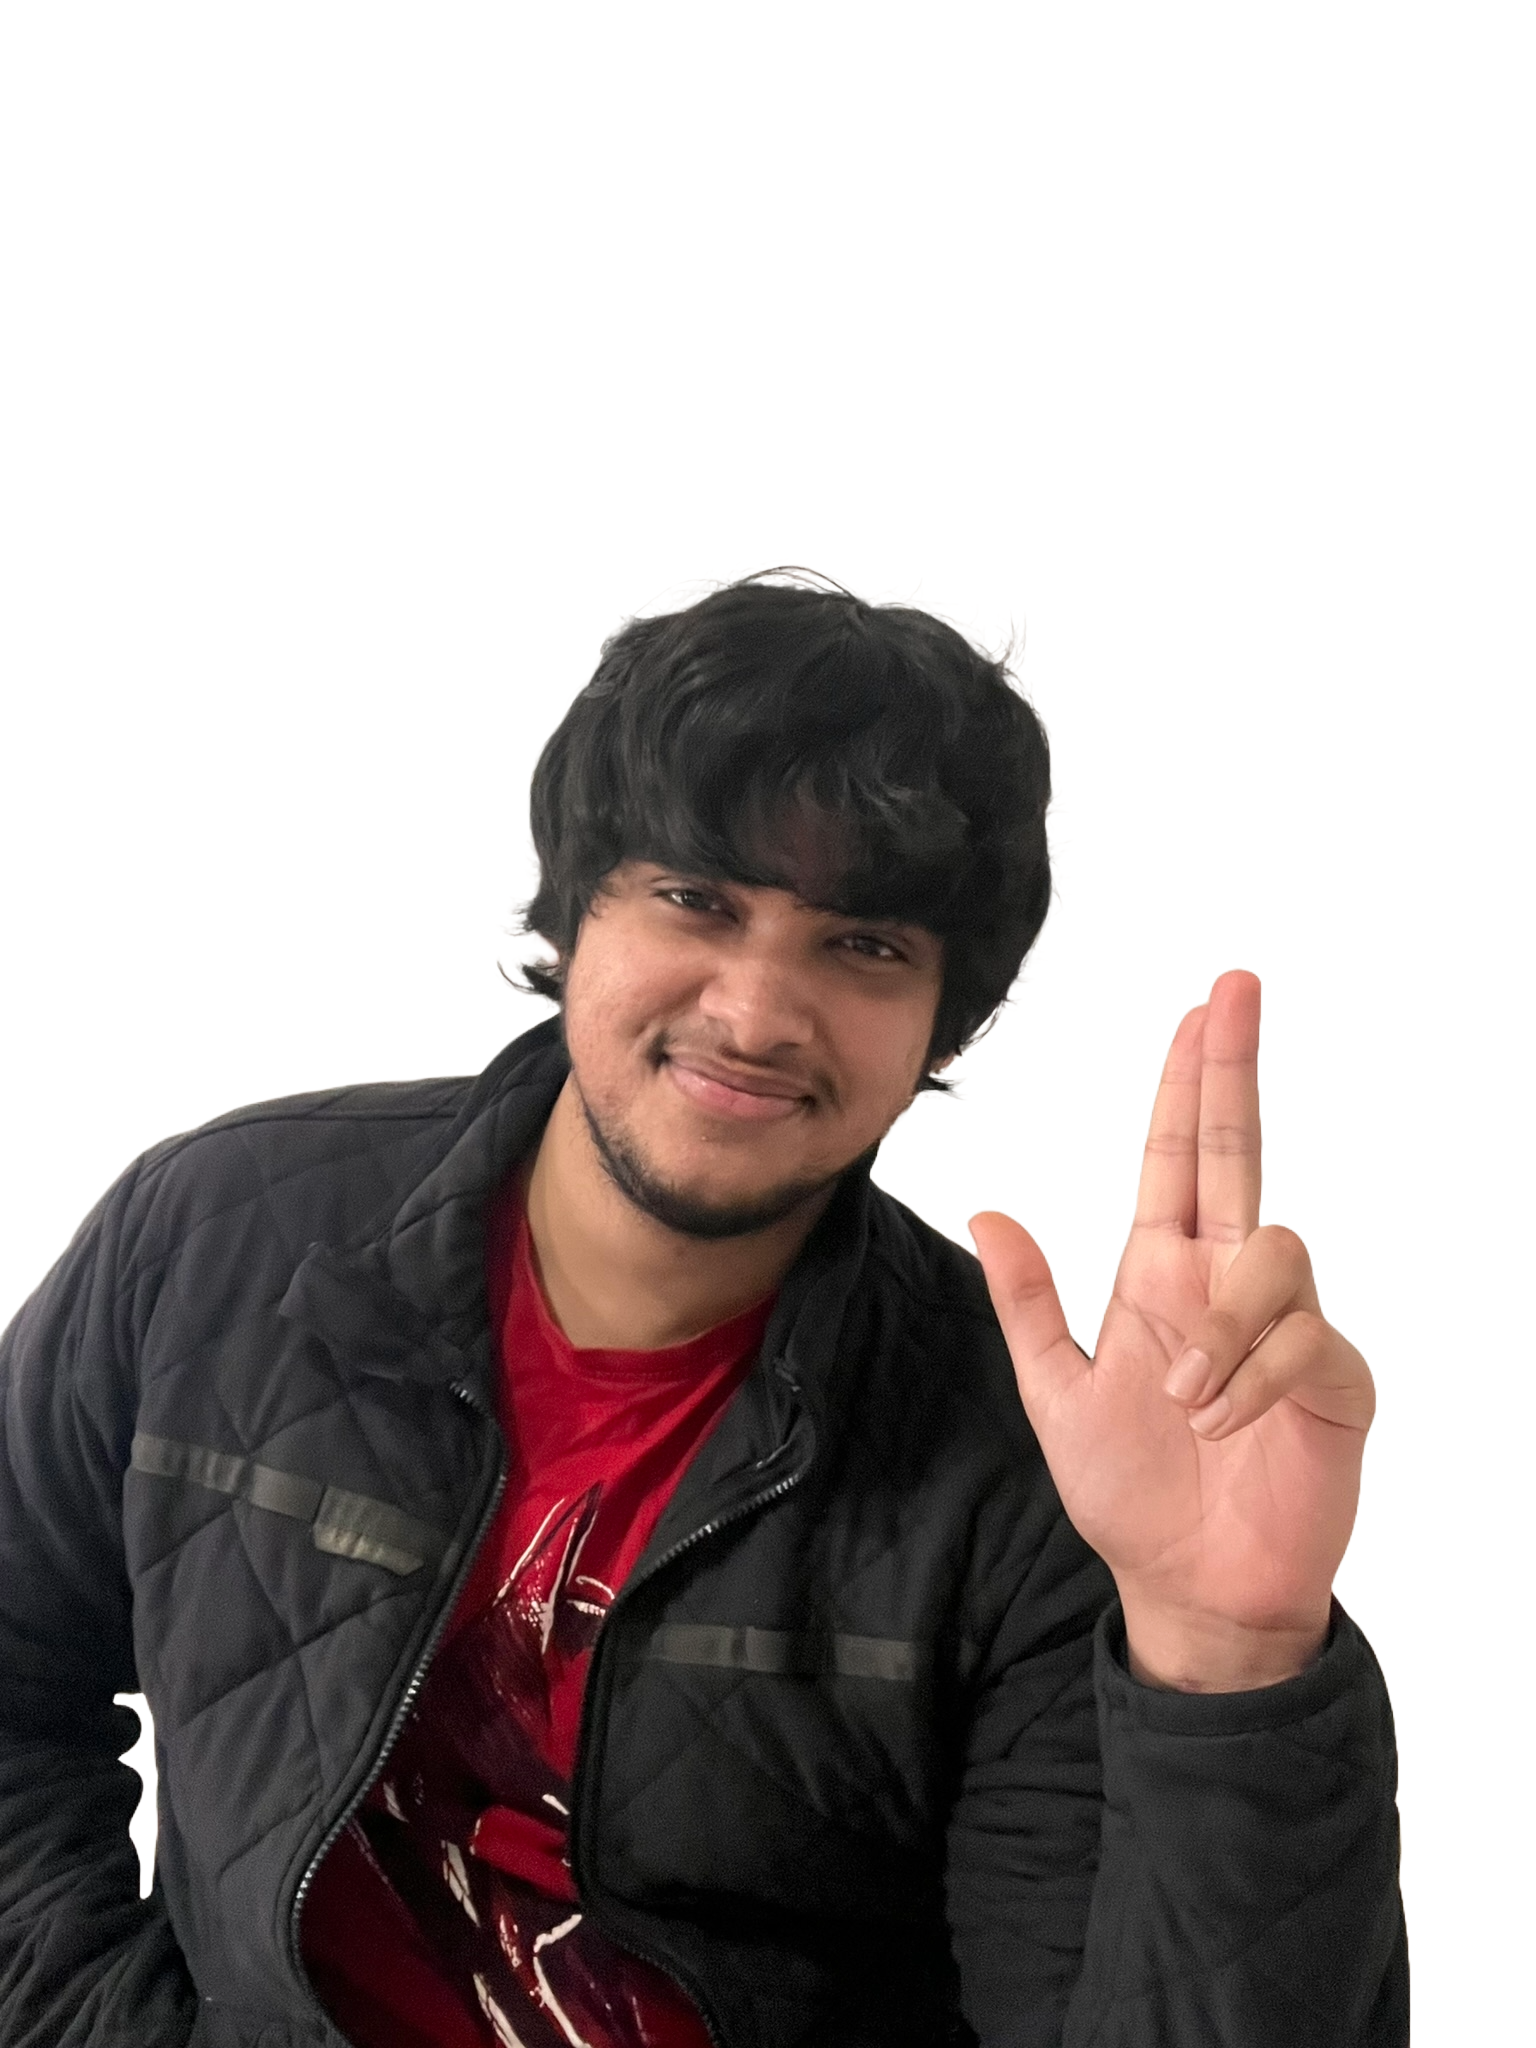
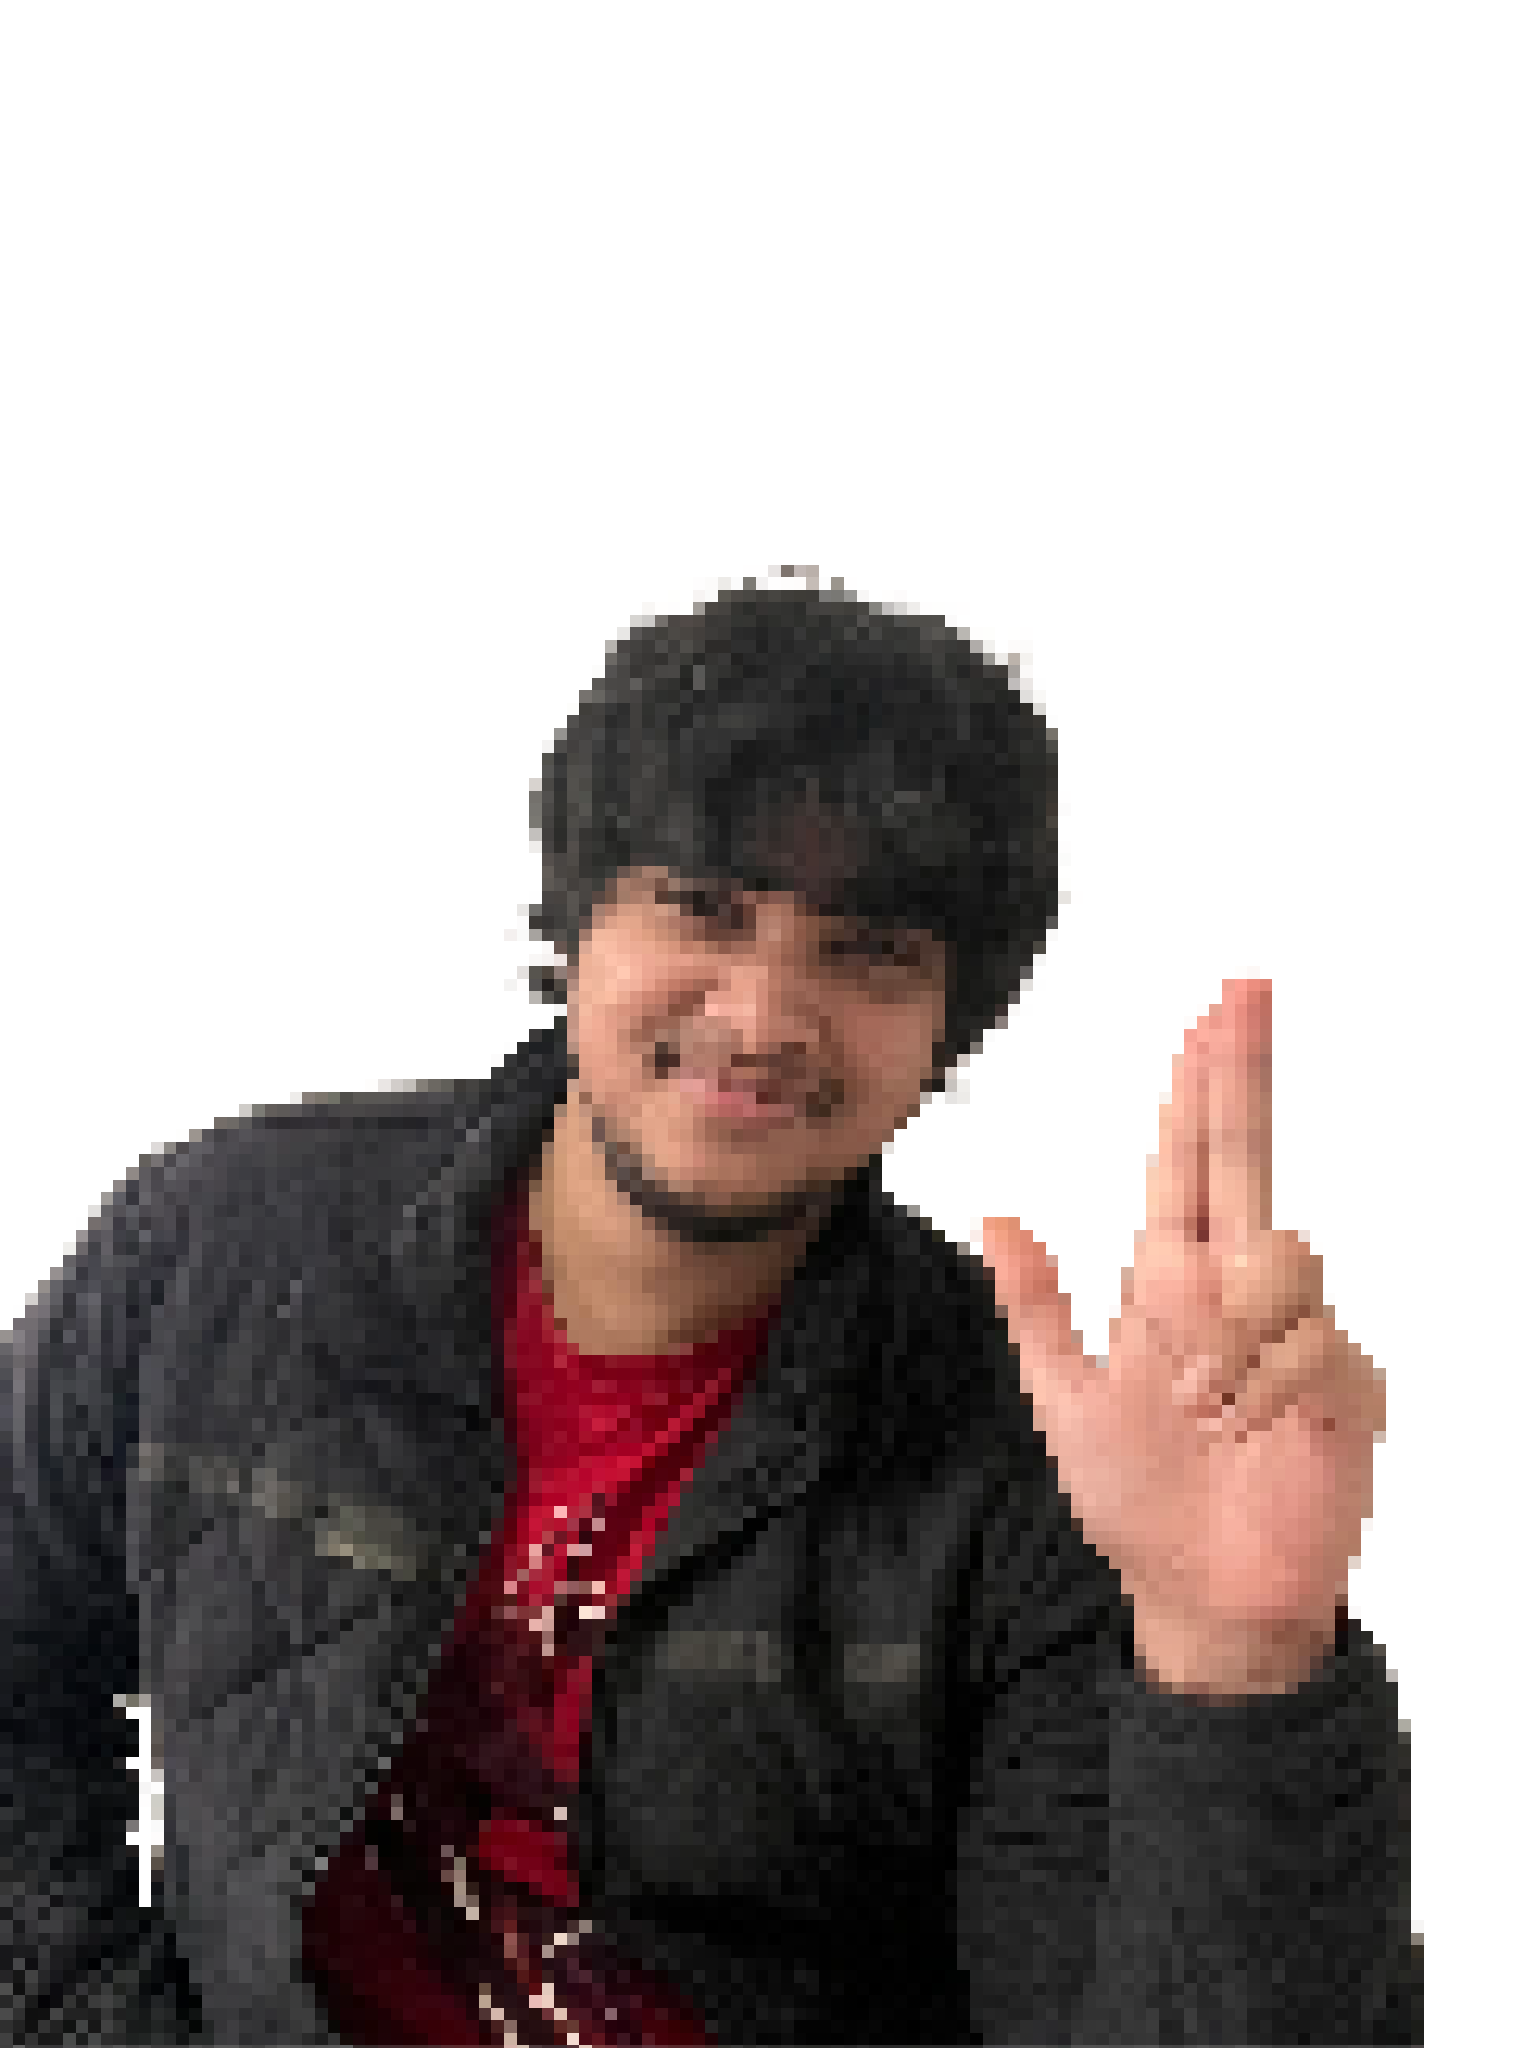
"trying pixelated v1"

diff --git a/test.html b/test.html
@@ -3,120 +3,21 @@
 <head>
     <meta charset="UTF-8">
     <meta name="viewport" content="width=device-width, initial-scale=1.0">
-    <title>Glitch Effect Image</title>
+    <title>Undertale Font Example</title>
     <style>
-        * {
-            margin: 0;
-            padding: 0;
-            box-sizing: border-box;
-        }
-        
+        @import url('https://fonts.googleapis.com/css2?family=Pixelify+Sans:wght@400..700&display=swap');
+
         body {
-            height: 100vh;
-            width: 100%;
-            background: radial-gradient(#480d35, #17151d);
-            display: grid;
-            place-items: center;
+            font-family: 'Pixelify Sans', sans-serif;
         }
 
-        .glitch-img {
-            position: relative;
-            width: 300px;
-            height: 400px;
-            overflow: hidden;
-        }
-
-        .glitch-img img {
-            display: block;
-            width: 100%;
-            height: 100%;
-            position: relative;
-            animation: glitch 2s infinite;
-        }
-
-        .glitch-img::before,
-        .glitch-img::after {
-            content: attr(alt);
-            position: absolute;
-            top: 0;
-            left: 0;
-            width: 100%;
-            height: 100%;
-            background: url('/public/images/myImages/about-01.png') no-repeat center/cover;
-            opacity: 0.8;
-            pointer-events: none; /* Prevent pseudo-elements from interfering with interactions */
-            color: transparent; /* Prevent the content text from showing */
-        }
-
-        .glitch-img::before {
-            animation: glitch-1 1s infinite linear alternate-reverse;
-        }
-
-        .glitch-img::after {
-            animation: glitch-2 1s infinite linear alternate-reverse;
-            animation-delay: -0.5s;
-        }
-
-        @keyframes glitch-1 {
-            0% {
-                clip-path: inset(0 0 85% 0);
-                transform: translate(-2px, -2px);
-            }
-            20% {
-                clip-path: inset(15% 0 60% 0);
-                transform: translate(2px, 2px);
-            }
-            40% {
-                clip-path: inset(55% 0 20% 0);
-                transform: translate(-2px, 2px);
-            }
-            60% {
-                clip-path: inset(30% 0 40% 0);
-                transform: translate(2px, -2px);
-            }
-            80% {
-                clip-path: inset(60% 0 10% 0);
-                transform: translate(-2px, -2px);
-            }
-            100% {
-                clip-path: inset(10% 0 85% 0);
-                transform: translate(2px, 2px);
-            }
-        }
-
-        @keyframes glitch-2 {
-            0% {
-                clip-path: inset(80% 0 5% 0);
-                transform: translate(2px, 2px);
-            }
-            20% {
-                clip-path: inset(10% 0 75% 0);
-                transform: translate(-2px, -2px);
-            }
-            40% {
-                clip-path: inset(50% 0 30% 0);
-                transform: translate(2px, -2px);
-            }
-            60% {
-                clip-path: inset(20% 0 50% 0);
-                transform: translate(-2px, 2px);
-            }
-            80% {
-                clip-path: inset(70% 0 15% 0);
-                transform: translate(2px, 2px);
-            }
-            100% {
-                clip-path: inset(30% 0 60% 0);
-                transform: translate(-2px, -2px);
-            }
+        .pixelated-text {
         }
     </style>
 </head>
 <body>
 
-    <div class="glitch-img">
-        <img src="/public/images/myImages/about-01.png" alt="Glitch Image">
-    </div>
+        Undertale Font in Action!
 
 </body>
 </html>

diff --git a/styles/pattern.css b/styles/pattern.css
@@ -1,23 +1,23 @@
 .pattern-container1 {
     background-color: blue;
-    background-image: 
+    /* background-image: 
         linear-gradient(90deg, rgb(87, 191, 226) 1px, transparent 1px),
         linear-gradient(90deg, lightblue 1px, transparent 1px),
         linear-gradient(0deg, lightblue 1px, transparent 1px),
         linear-gradient(0deg, lightblue 1px, transparent 1px);
     background-size: 2px 2px;
-    background-position: 0px 0px, 10px 10px, 0px 0px, 10px 10px;
+    background-position: 0px 0px, 10px 10px, 0px 0px, 10px 10px; */
 }
 
 .pattern-container2 {
     background-color: blue;
-    background-image: 
+    /* background-image: 
         linear-gradient(90deg, rgb(63, 173, 209) 1px, transparent 1px),
         linear-gradient(90deg, rgb(63, 173, 209) 1px, transparent 1px),
         linear-gradient(0deg, rgb(63, 173, 209) 1px, transparent 1px),
         linear-gradient(0deg, rgb(63, 173, 209) 1px, transparent 1px);
     background-size: 3px 3px;
-    background-position: 0px 0px, 10px 10px, 0px 0px, 10px 10px;
+    background-position: 0px 0px, 10px 10px, 0px 0px, 10px 10px; */
 }
 
 .pattern-container3 {

diff --git a/styles/globals.css b/styles/globals.css
@@ -1,5 +1,6 @@
-@import url('https://fonts.googleapis.com/css2?family=Montserrat:wght@400;500;900&family=Onest&display=swap');
 @import "@fortawesome/fontawesome-free/css/all.min.css";
+
+@import url('https://fonts.googleapis.com/css2?family=Pixelify+Sans:wght@400..700&display=swap');
 
 
 * {
@@ -11,7 +12,7 @@
 html,
 body {
   max-width: 100vw;
-  font-family: 'Montserrat', sans-serif;
+  font-family: 'Pixelify Sans', sans-serif;
   overscroll-behavior: none;
   overflow-x: hidden;
   

diff --git a/styles/dashboard.css b/styles/dashboard.css
@@ -1,3 +1,6 @@
+
+
+
 .main-dashBoard-container {
     width: 100vw;
     /* height: calc(100dvh - 200px); */
@@ -35,6 +38,7 @@
     height: 66.6px;
     display: flex;
     justify-content: space-between;
+    
 }
 
 .name-tag {
